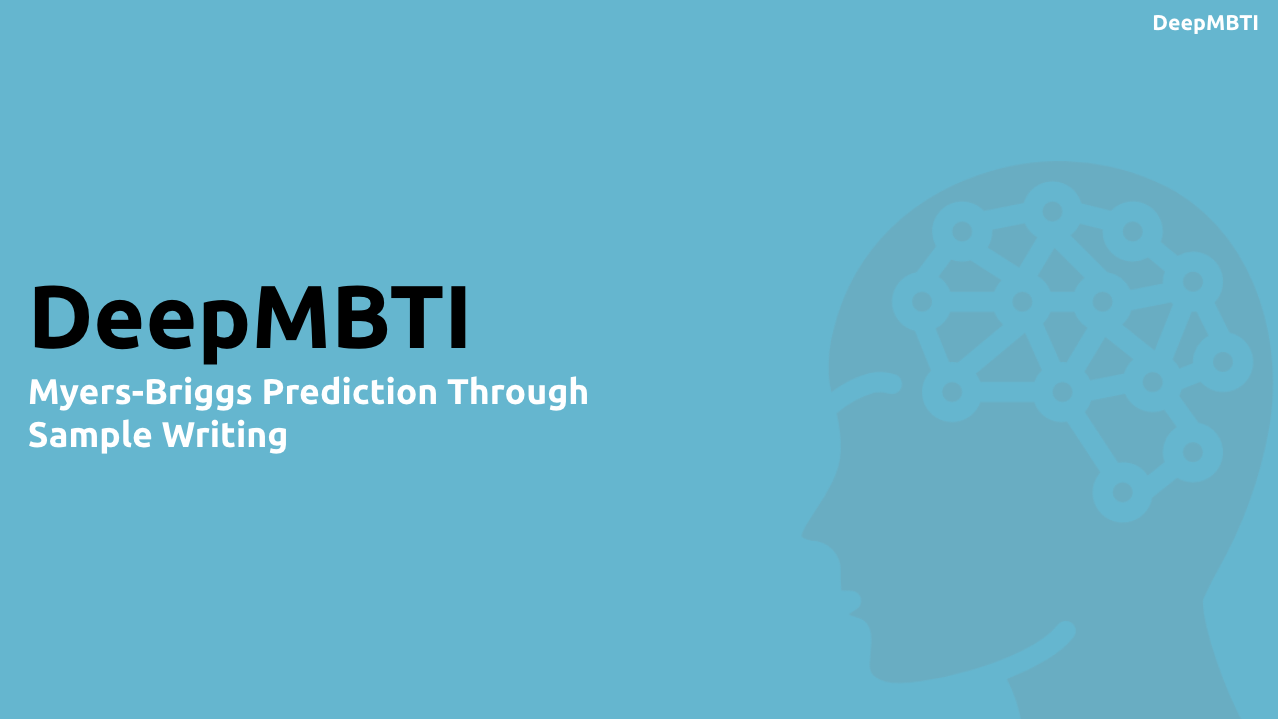
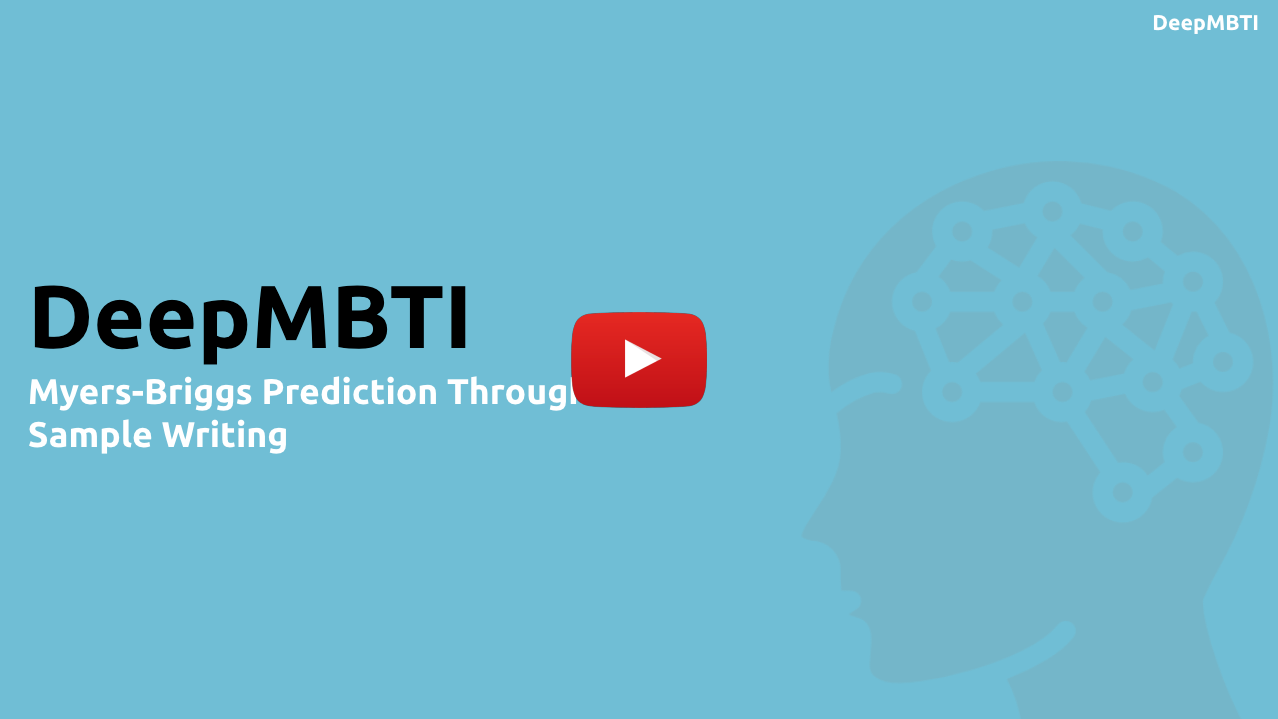
ReadME updates

Changed region(s): [[0.4272, 0.4284, 0.5798, 0.5814]]

diff --git a/README.md b/README.md
@@ -1,4 +1,4 @@
-![title](/Resources/mdImages/mdTitle.png)
+![title](/Resources/mdImages/mdTitle2.png)
 
 **DeepMBTI: Predict Personalities, Just by Sample Writing**
 
